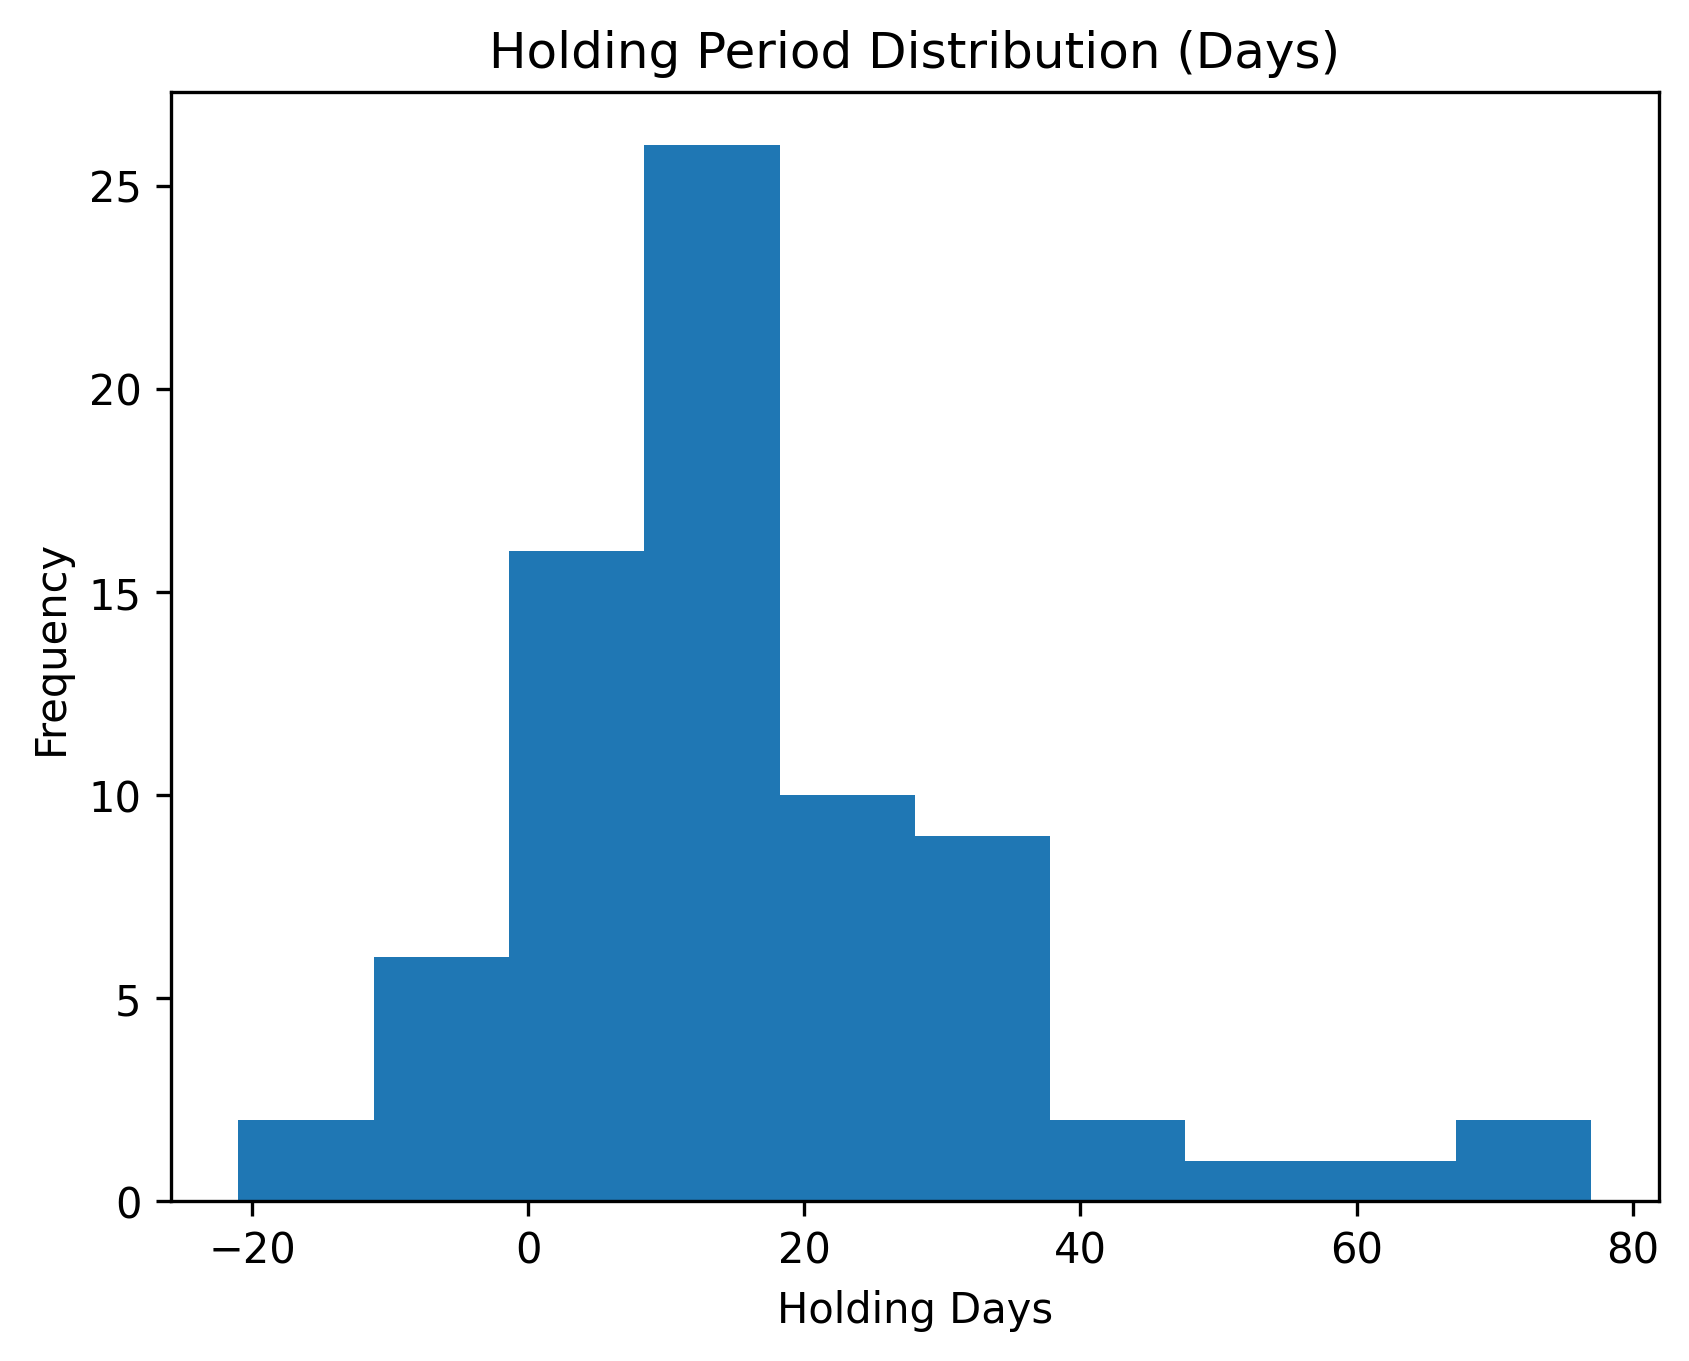
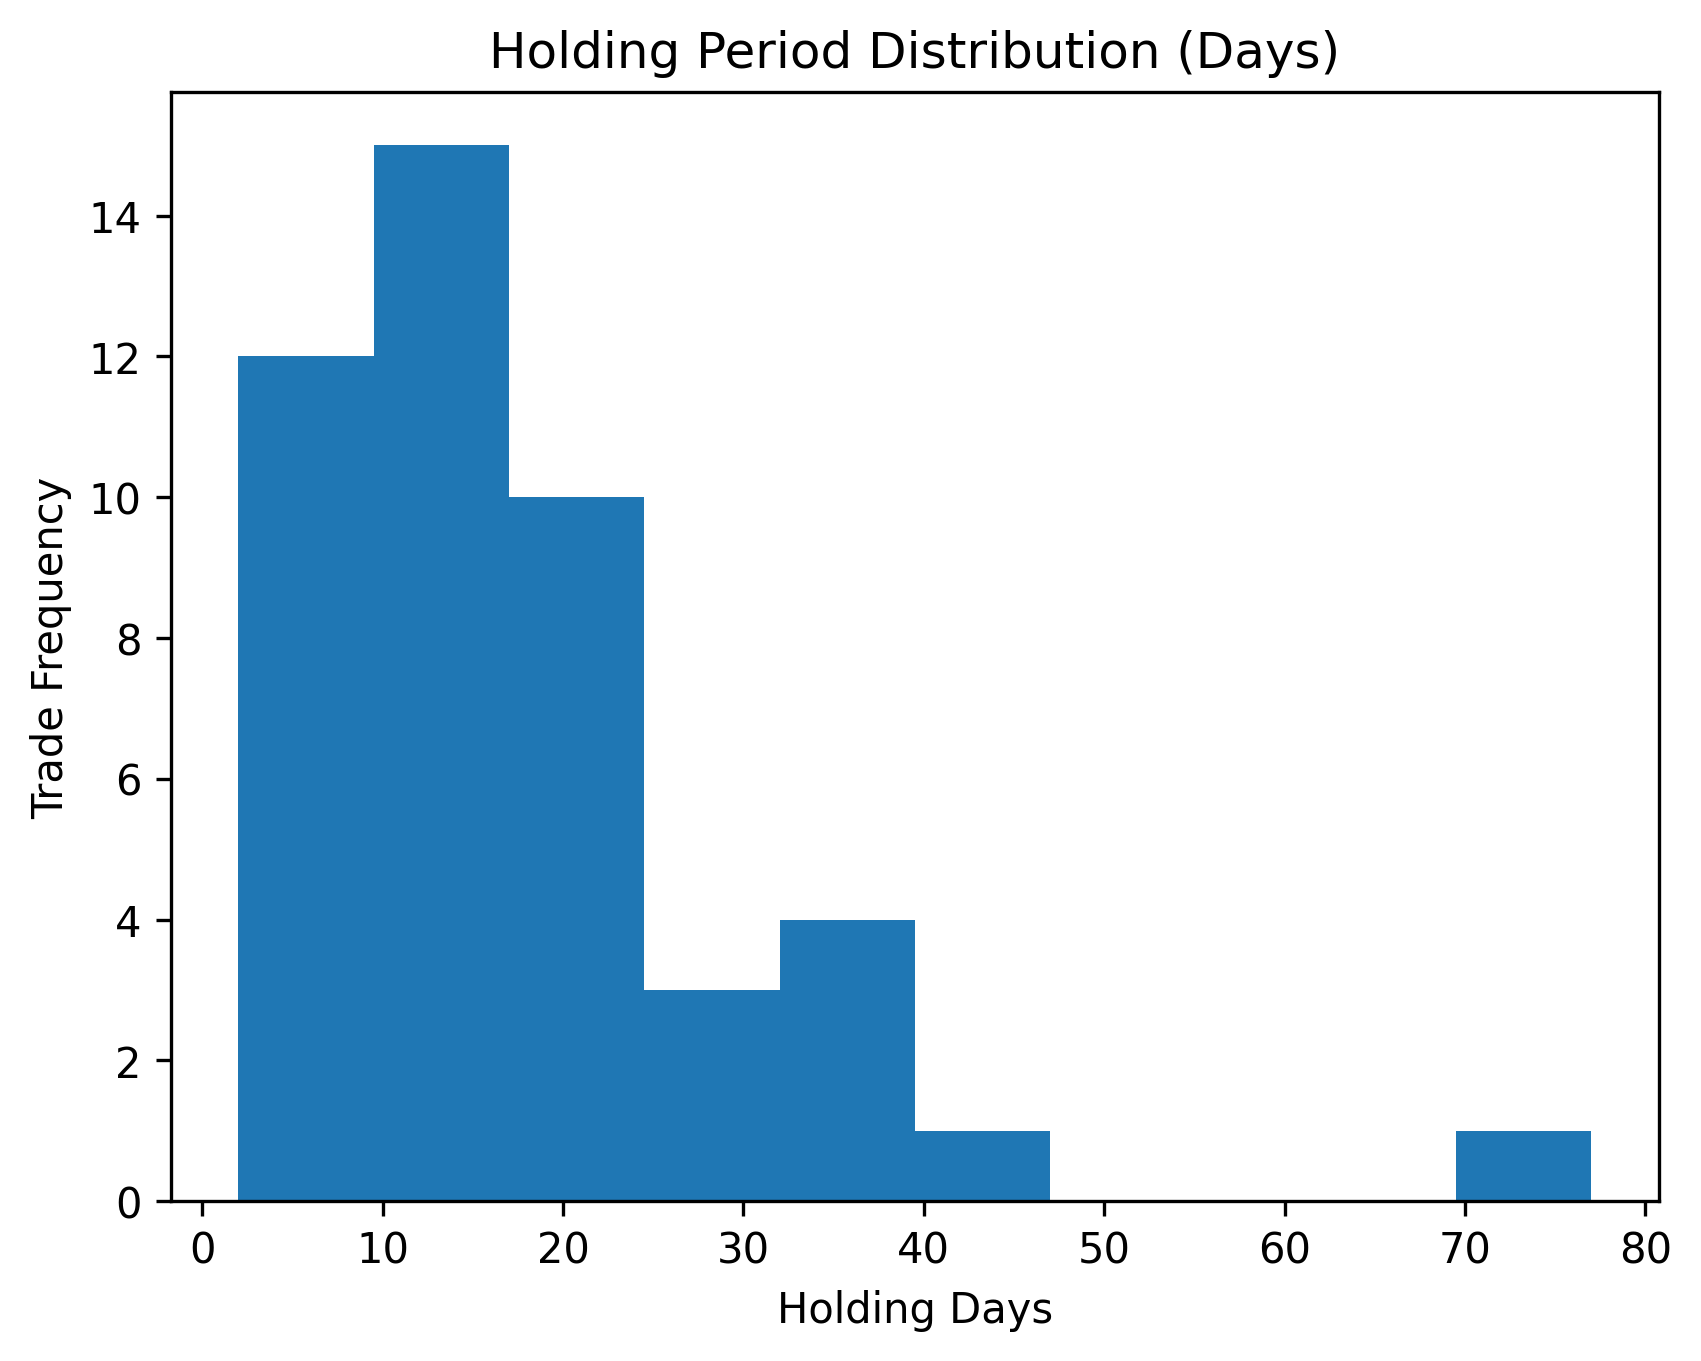
Fix holding_distubution graph

diff --git a/Scripts and CSV Files/graphs/holding_distubution.py b/Scripts and CSV Files/graphs/holding_distubution.py
@@ -1,25 +1,57 @@
 import pandas as pd
 import matplotlib.pyplot as plt
 
+def compute_fifo_holding_days(trades_df: pd.DataFrame):
+    trades_df = trades_df.sort_values("Date")
+
+    holding_days = []
+
+    for ticker, tdf in trades_df.groupby("Ticker"):
+        buy_queue = []
+
+        for _, row in tdf.iterrows():
+            date = row["Date"]
+
+            if not pd.isna(row["Shares Bought"]):
+                buy_queue.append({
+                    "date": date,
+                    "shares": row["Shares Bought"]
+                })
+
+            if not pd.isna(row["Shares Sold"]):
+                shares_to_sell = row["Shares Sold"]
+
+                while shares_to_sell > 0 and buy_queue:
+                    buy = buy_queue[0]
+                    matched = min(buy["shares"], shares_to_sell)
+
+                    days = (date - buy["date"]).days
+                    holding_days.append(days)
+
+                    buy["shares"] -= matched
+                    shares_to_sell -= matched
+
+                    if buy["shares"] == 0:
+                        buy_queue.pop(0)
+
+    return holding_days
+
+
 def plot_holding_period_distribution(trades_df: pd.DataFrame, bins: int = 10):
-    buys = trades_df.dropna(subset=["Shares Bought"])
-    sells = trades_df.dropna(subset=["Shares Sold"])
-
-    merged = buys.merge(
-        sells,
-        on="Ticker",
-        suffixes=("_buy", "_sell")
-    )
-
-    holding_days = (merged["Date_sell"] - merged["Date_buy"]).dt.days
+    holding_days = compute_fifo_holding_days(trades_df)
 
     plt.figure()
     plt.hist(holding_days, bins=bins)
     plt.title("Holding Period Distribution (Days)")
-    plt.ylabel("Ticker Frequency")
     plt.xlabel("Holding Days")
-    plt.savefig("Scripts and CSV Files/images/holding_distubution.png", dpi=300, bbox_inches="tight")
+    plt.ylabel("Trade Frequency")
+    plt.savefig(
+        "Scripts and CSV Files/images/holding_distubution.png",
+        dpi=300,
+        bbox_inches="tight"
+    )
     plt.show()
+
 
 def load_data(trade_log_path: str, daily_updates_path: str):
     trades = pd.read_csv(trade_log_path, parse_dates=["Date"])
